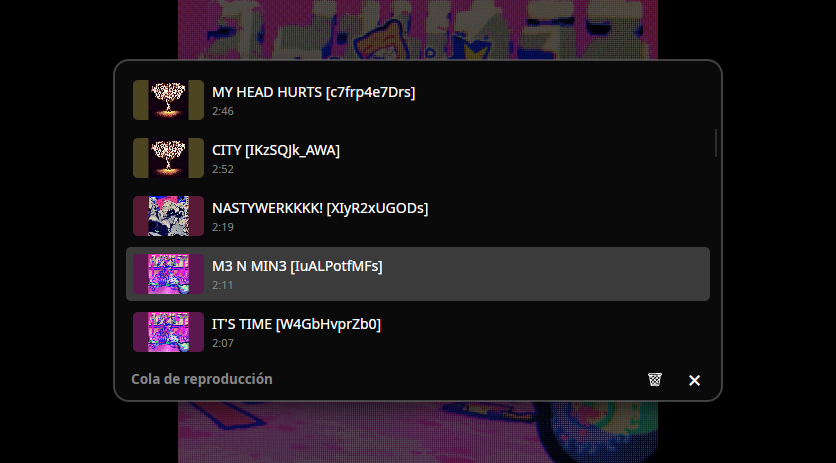
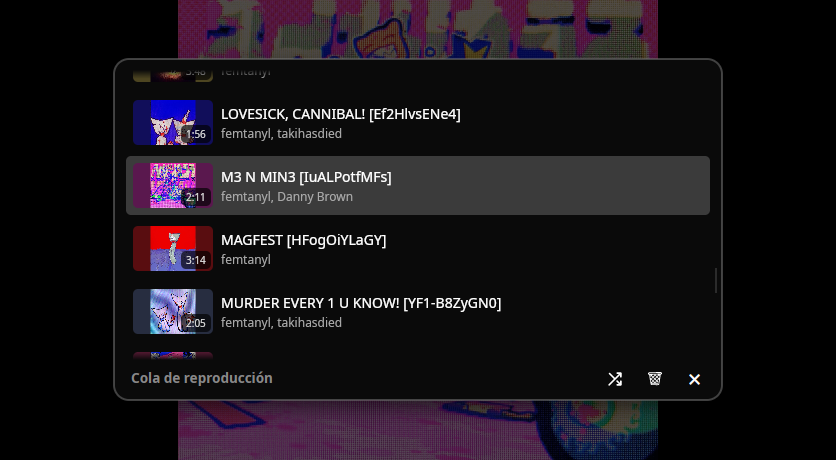
Añadiendo boton Shuffle y el keybind S, para alternarlo

diff --git a/Views/PlayerView.axaml.cs b/Views/PlayerView.axaml.cs
@@ -22,6 +22,8 @@ public partial class PlayerView : UserControl
 {
     private MpvPlayer _mpv => App.Mpv;
     private PlaylistService _playlist => App.Playlist;
+    private Color? MutedColor = Application.Current.FindResource("MutedColor") as Color?;
+    private Color? AccentColor = Application.Current.FindResource("AccentColor") as Color?;
 
     private System.Timers.Timer _hideTimer;
     private bool _seeking;
@@ -135,29 +137,6 @@ public partial class PlayerView : UserControl
         await ShowOverlay(state ? PauseIcon : PlayIcon);
     }
 
-    private CancellationTokenSource overlayCts;
-
-    private async Task ShowOverlay(Avalonia.Svg.Svg source)
-    {
-        overlayCts?.Cancel();
-        overlayCts = new();
-        var token = overlayCts.Token;
-
-        Dispatcher.UIThread.Invoke(() =>
-        {
-            OverlayIcon.CurrentColor = source.CurrentColor;
-            OverlayIcon.Path = source.Path;
-            OverlayIcon.Opacity = 1;
-        });
-
-        try
-        {
-            await Task.Delay(500, token);
-            Dispatcher.UIThread.Invoke(() => { OverlayIcon.Opacity = 0; });
-        }
-        catch (OperationCanceledException) { }
-    }
-
     private bool IsPointerInside(Visual visual, Point rootPoint)
     {
         var point = visual.TranslatePoint(new Point(0, 0), RootGrid);
@@ -224,7 +203,7 @@ public partial class PlayerView : UserControl
 
     private async void SetLoopModeBtn(LoopMode mode)
     {
-        LoopIcon.CurrentColor = Application.Current.FindResource(mode == LoopMode.None ? "MutedColor" : "AccentColor") as Color?;
+        LoopIcon.CurrentColor = mode == LoopMode.None ? MutedColor : AccentColor;
         LoopIcon.IsVisible = mode != LoopMode.Track;
         LoopOneIcon.IsVisible = mode == LoopMode.Track;
         await ShowOverlay(mode != LoopMode.Track ? LoopIcon : LoopOneIcon);
@@ -252,6 +231,28 @@ public partial class PlayerView : UserControl
     }
 
     // ------ Public Methods ------ //
+
+    private CancellationTokenSource overlayCts;
+    public async Task ShowOverlay(Avalonia.Svg.Svg source)
+    {
+        overlayCts?.Cancel();
+        overlayCts = new();
+        var token = overlayCts.Token;
+
+        Dispatcher.UIThread.Invoke(() =>
+        {
+            OverlayIcon.CurrentColor = source.CurrentColor;
+            OverlayIcon.Path = source.Path;
+            OverlayIcon.Opacity = 1;
+        });
+
+        try
+        {
+            await Task.Delay(500, token);
+            Dispatcher.UIThread.Invoke(() => { OverlayIcon.Opacity = 0; });
+        }
+        catch (OperationCanceledException) { }
+    }
 
     public void UpdateFullScreenIcons(bool isFullScreen)
     {

diff --git a/Views/PlaylistView.axaml.cs b/Views/PlaylistView.axaml.cs
@@ -1,8 +1,11 @@
 /* SPDX-License-Identifier: MPL-2.0
  * Copyright (c) 2026 1R1an1 */
 using System;
-using System.Linq;
+using System.Threading.Tasks;
+using Avalonia;
 using Avalonia.Controls;
+using Avalonia.Media;
+using Avalonia.Threading;
 using MediaPlayer.Models;
 using MediaPlayer.Services;
 
@@ -13,12 +16,28 @@ public partial class PlaylistView : UserControl
 {
     private PlaylistService _playlist => App.Playlist;
     public event Action CloseRequested;
+    private Color? MutedColor = Application.Current.FindResource("MutedColor") as Color?;
+    private Color? AccentColor = Application.Current.FindResource("AccentColor") as Color?;
+    public event Func<Avalonia.Svg.Svg, Task> ShowOverlay;
 
     public PlaylistView()
     {
         InitializeComponent();
         CloseBtn.Click += (_, _) => CloseRequested?.Invoke();
         ClearBtn.Click += (_, _) => _playlist.Clear();
+        ShuffleBtn.Click += (_, _) => ToggleShuffle();
+    }
+
+    public async void ToggleShuffle(bool? enable = null)
+    {
+        Dispatcher.UIThread.Invoke(() =>
+        {
+            _playlist.Shuffle = enable ?? !_playlist.Shuffle;
+            ShuffleIcon.CurrentColor = _playlist.Shuffle ? AccentColor : MutedColor;
+        });
+
+        if (ShowOverlay != null)
+            await ShowOverlay(ShuffleIcon);
     }
 
     private void OnSelectionChanged(object sender, SelectionChangedEventArgs e)

diff --git a/MainWindow.axaml.cs b/MainWindow.axaml.cs
@@ -34,11 +34,14 @@ public partial class MainWindow : Window
         _mpv.MPRISQuitRequested += Close;
         _mpv.MPRISRaiseRequested += () => { WindowState = WindowState.Normal; Activate(); };
         _mpv.MPRISVolumeChanged += _mpv.SetVolume01;
+        _mpv.MPRISShuffleChanged += s => PlaylistView.ToggleShuffle(s);
 
         // --- PLAYLIST EVENTS --- //
+        _playlist.ShuffleChanged += _ => UpdateMprisState();
         _playlist.LoopModeChanged += _ => UpdateMprisState();
         _playlist.CurrentChanged += _ => UpdateMprisState();
         PlaylistView.CloseRequested += async () => await HidePlaylist();
+        PlaylistView.ShowOverlay += PlayerView.ShowOverlay;
         PlayerView.ToggleFullScreen += ToggleFullscreen;
 
         // --- KEYBINDINGS --- //
@@ -49,6 +52,7 @@ public partial class MainWindow : Window
         _keys.Next = PlayerView.Next;
         _keys.Prev = PlayerView.Preview;
         _keys.CycleLoopMode = _playlist.CycleLoopMode;
+        _keys.ToggleShuffle += () => PlaylistView.ToggleShuffle();
         _keys.ToggleFullscreen = ToggleFullscreen;
         _keys.ExitFullscreen = () => { if (WindowState == WindowState.FullScreen) WindowState = WindowState.Normal; };
         _keys.NextAudioTrack = () =>

diff --git a/Services/PlaylistService.cs b/Services/PlaylistService.cs
@@ -24,6 +24,7 @@ public class PlaylistService
     private readonly Random _rng = new();
 
     public event Action<LoopMode> LoopModeChanged;
+    public event Action<bool> ShuffleChanged;
     public event Action<int> CurrentChanged;
 
     public ReadOnlyObservableCollection<PlaylistItem> Items => new ReadOnlyObservableCollection<PlaylistItem>(_items);
@@ -45,11 +46,11 @@ public class PlaylistService
     public LoopMode LoopMode
     {
         get => _loopMode;
-        set
+        private set
         {
             if (_loopMode == value) return;
             _loopMode = value;
-            LoopModeChanged?.Invoke(_loopMode);
+            LoopModeChanged?.Invoke(value);
         }
     }
 
@@ -60,6 +61,8 @@ public class PlaylistService
         {
             if (_shuffle == value) return;
             _shuffle = value;
+            _mpv.Shuffle = value;
+            ShuffleChanged?.Invoke(value);
             ApplyShuffle();
         }
     }
@@ -67,7 +70,6 @@ public class PlaylistService
     public PlaylistService()
     {
         _mpv.MPRISLoopChanged += SetLoopMode;
-        _mpv.MPRISShuffleChanged += s => Shuffle = s;
         _mpv.EndReached += () =>
         {
             if (LoopMode == LoopMode.Track)

diff --git a/Services/KeyBindings.cs b/Services/KeyBindings.cs
@@ -26,6 +26,7 @@ public class KeyBindings
     public Action Prev;
     public Action CycleLoopMode;
     public Action ToggleFullscreen;
+    public Action ToggleShuffle;
     public Action ExitFullscreen;
     public Action NextAudioTrack;
     public Action TogglePlaylist;
@@ -53,6 +54,7 @@ public class KeyBindings
         Bind(Key.D9, KeyModifiers.None, () => VolumeDelta?.Invoke(-0.05));
         Bind(Key.M, KeyModifiers.None, () => ToggleMute?.Invoke());
 
+        Bind(Key.S, KeyModifiers.None, () => ToggleShuffle?.Invoke());
         Bind(Key.L, KeyModifiers.None, () => CycleLoopMode?.Invoke());
         Bind(Key.J, KeyModifiers.None, () => NextAudioTrack?.Invoke());
 

diff --git a/README.md b/README.md
@@ -85,6 +85,7 @@ sudo ln -sf $(realpath ./bin/Release/net10.0/linux-x64/publish/MediaPlayer) /usr
 | Volumen -5%              | `↓`, `-`, `9`      |
 | Mute                     | `M`                |
 | Cambiar modo loop        | `L`                |
+| Alternar modo aleatorio  | `S`                |
 | Siguiente pista de audio | `J`                |
 | Pantalla completa        | `F`                |
 | Salir de fullscreen      | `Esc`              |
